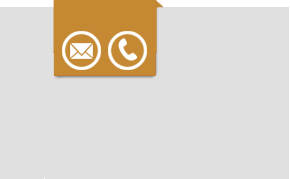
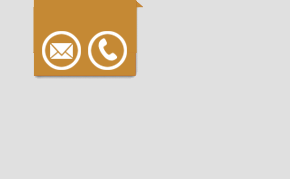
Contact Us img bug fixing

Changed region(s): [[0.0, 0.0, 1.0, 1.0]]

diff --git a/resources/css/styles.css b/resources/css/styles.css
@@ -221,7 +221,7 @@ ul.sub-menu li {
     margin-bottom: 6px;
     font-weight: bold;
     text-transform: uppercase;
-    margin-left: 28px;
+    margin-left: 14px;
 }
 
 .contact p , .contact p a {
@@ -231,7 +231,7 @@ ul.sub-menu li {
     text-decoration: none;
 }
 .contact p {
-    margin-left: 28px!important;
+    margin-left: 14px!important;
     margin-top: 5px!important;
     margin-bottom: 5px!important;
 }
